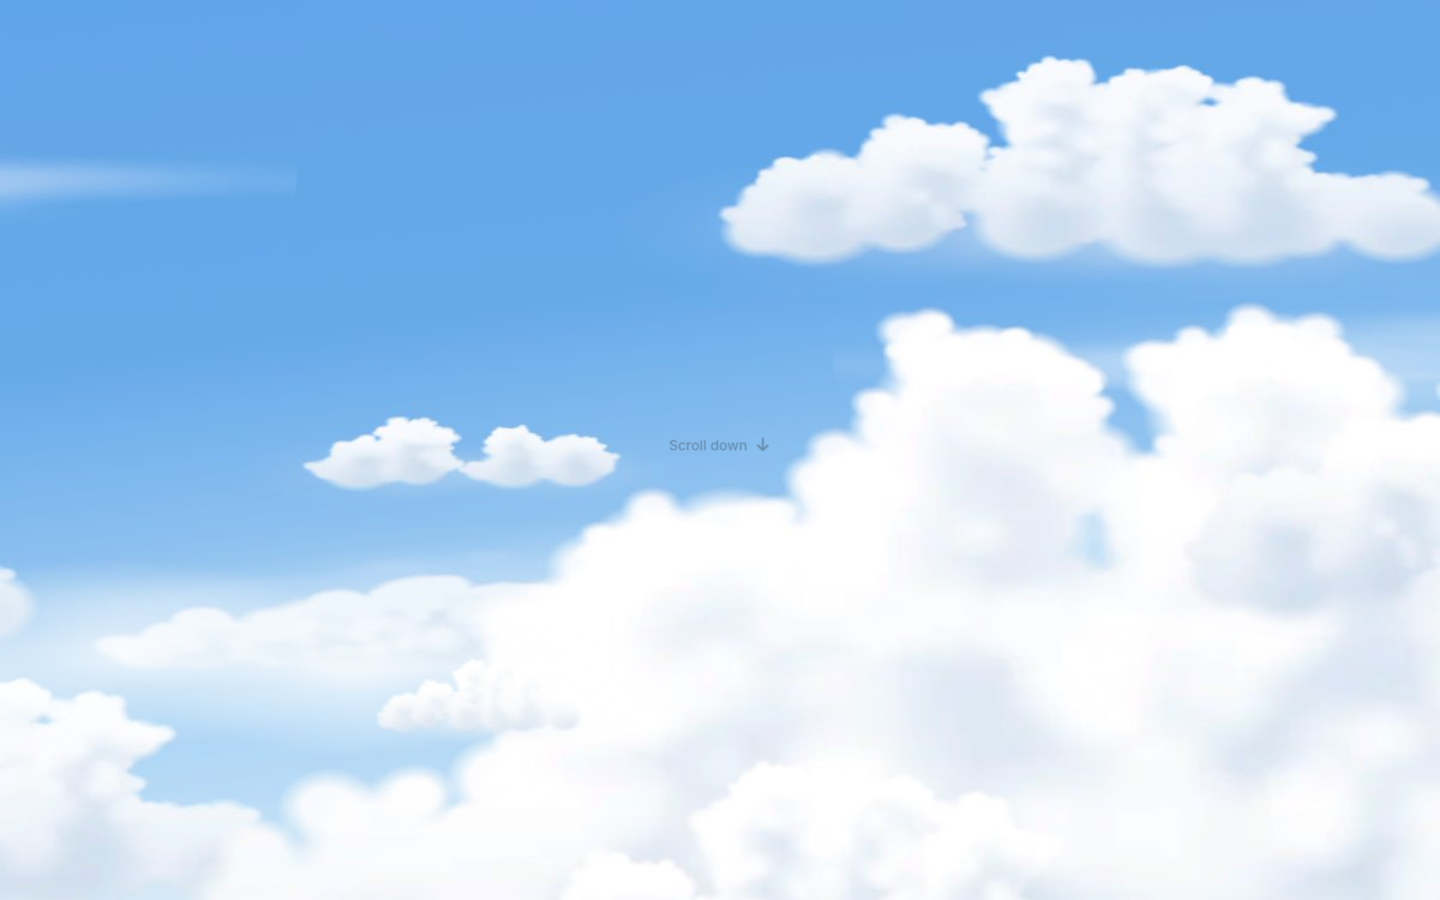
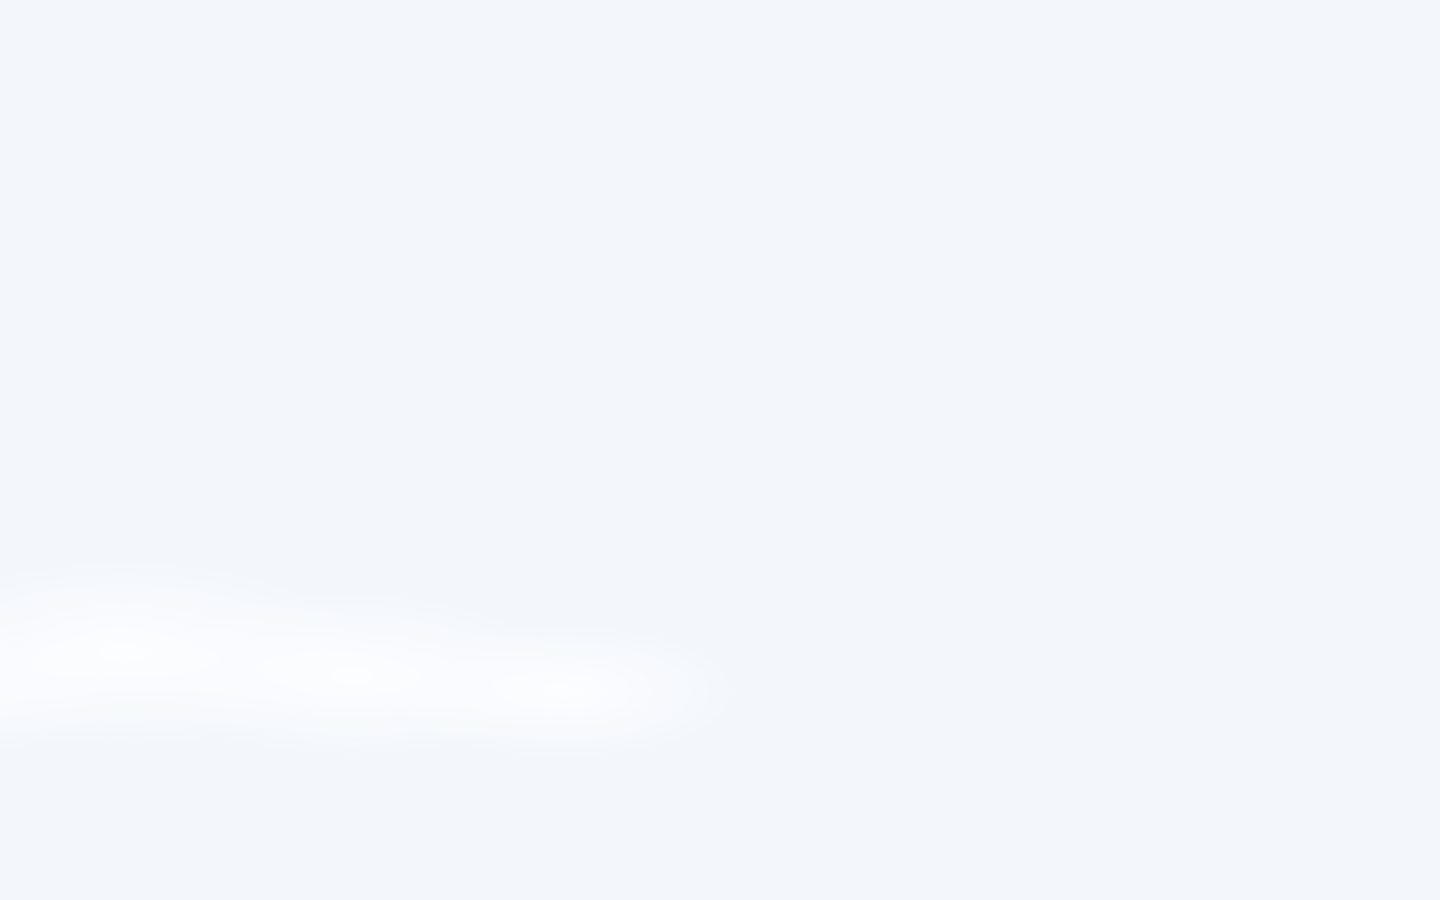
Opening: page starts inside the clouds and flies out to the intro

diff --git a/src/scroll.js b/src/scroll.js
@@ -2,7 +2,7 @@
 // from one pose to the next. Only the intro segments exist so far.
 import gsap from 'gsap';
 import { ScrollTrigger } from 'gsap/ScrollTrigger';
-import { POSES, setCameraPose, setFallbackShift } from './scene.js';
+import { POSES, setCameraPose, setFallbackShift, setFallbackZoom } from './scene.js';
 
 gsap.registerPlugin(ScrollTrigger);
 
@@ -113,6 +113,11 @@ function applyCamera() {
     const cloud = inClouds(straight(POSES.introStart, POSES.introEnd, introT), t);
     at = { rotX: mix(cloud.rotX, at.rotX, gate.value), y: mix(cloud.y, at.y, gate.value), z: mix(cloud.z, at.z, gate.value) };
   }
+  if (opening.value < 1) {
+    // Opening: start buried in the clouds and blend out to wherever the scroll says.
+    const o = opening.value;
+    at = { rotX: mix(POSES.opening.rotX, at.rotX, o), y: mix(POSES.opening.y, at.y, o), z: mix(POSES.opening.z, at.z, o) };
+  }
   setCameraPose({
     rotX: at.rotX - pointer.y * TRACK.tilt * follow,
     y: at.y - pointer.y * TRACK.lift * follow,
@@ -140,6 +145,36 @@ function moveMist(t) {
     const y = (MIST.passAt[i] - t) * MIST.travel;
     wisp.style.transform = `translate3d(0, ${y.toFixed(2)}vh, 0)`;
   });
+}
+
+// Opening: on a first visit the page starts inside the clouds and the camera flies out
+// to the first view. It starts from rest so the covered view is actually seen, speeds up
+// as the clouds part, and lands softly (ease in and out: it moves between two places).
+// With the 3D scene the veil just lifts off the real clouds first; without it (phones,
+// slow or failed load) the static image zooms out while the veil fades with it.
+const opening = { value: document.documentElement.classList.contains('is-opening') ? 0 : 1 };
+export function playOpening(sceneShowing) {
+  const root = document.documentElement;
+  if (!root.classList.contains('is-opening')) return;
+  const css = getComputedStyle(root);
+  const seconds = (parseFloat(css.getPropertyValue('--duration-opening')) || 1800) / 1000;
+  const zoom = parseFloat(css.getPropertyValue('--scale-opening-fallback')) || 1.4;
+  const veil = { value: 1 };
+  const paint = () => {
+    root.style.setProperty('--opening-veil', veil.value.toFixed(3));
+    setFallbackZoom(mix(zoom, 1, opening.value));
+    applyCamera();
+  };
+  gsap.timeline({
+    onUpdate: paint,
+    onComplete: () => {
+      root.classList.remove('is-opening');
+      root.style.removeProperty('--opening-veil');
+      setFallbackZoom(1);
+    },
+  })
+    .to(veil, { value: 0, duration: sceneShowing ? 0.4 : seconds * 0.7, ease: 'power1.out' }, 0)
+    .to(opening, { value: 1, duration: seconds, ease: 'power2.inOut' }, sceneShowing ? 0.2 : 0);
 }
 
 // Lets intro.js push the camera a little along its path and back.

diff --git a/src/scene.js b/src/scene.js
@@ -15,7 +15,8 @@ const REQUIRED_OBJECTS = [
 export const POSES = {
   introStart: { rotX: 0, y: 7000, z: -1800 }, // right up against the clouds, their tops at the bottom edge
   introEnd: { rotX: 0.05, y: 3400, z: -1800 }, // sunk into the cloud layer
-  hero: { rotX: 0.297, y: 226, z: 3733 },     // pulled back and down: the full scene, hills along the bottom
+  hero: { rotX: 0.297, y: 226, z: 3733 },
+  opening: { rotX: 0, y: 5200, z: -5400 },    // buried in the clouds: the whole screen is cloud     // pulled back and down: the full scene, hills along the bottom
 };
 
 let app = null;
@@ -53,11 +54,23 @@ export function setCameraPose(next) {
 
 // Slide the static image up as the page scrolls (0 = start, 1 = fully slid).
 // It is taller than the screen, so this only ever shows more of its lower part.
-export function setFallbackShift(t) {
+let fallbackShift = 0;
+let fallbackZoom = 1;
+function placeFallback() {
   const image = document.querySelector('.scene__fallback');
   if (!image) return;
   const spare = image.offsetHeight - window.innerHeight;
-  image.style.transform = `translate3d(0, ${-Math.max(0, spare) * t}px, 0)`;
+  image.style.transformOrigin = 'center top';
+  image.style.transform = `translate3d(0, ${-Math.max(0, spare) * fallbackShift}px, 0) scale(${fallbackZoom})`;
+}
+export function setFallbackShift(t) {
+  fallbackShift = t;
+  placeFallback();
+}
+// Zoom the static image during the opening (1 = normal).
+export function setFallbackZoom(z) {
+  fallbackZoom = z;
+  placeFallback();
 }
 
 // Load the scene. Resolves true if it is showing, false if the page stays on the image.

diff --git a/src/main.js b/src/main.js
@@ -4,11 +4,19 @@ import './styles/base.css';
 import './styles/sections/intro.css';
 import './styles/sections/hero.css';
 import { initScene } from './scene.js';
-import { initScroll } from './scroll.js';
+import { initScroll, playOpening } from './scroll.js';
 import { initIntro } from './intro.js';
 
 initIntro();
 initScroll();
 
 // The 3D scene starts loading only after the first paint, so text never waits for it.
-requestAnimationFrame(() => setTimeout(initScene, 0));
+const sceneReady = new Promise((resolve) => {
+  requestAnimationFrame(() => setTimeout(() => initScene().then(resolve), 0));
+});
+
+// Opening fly-out: starts as soon as the scene is drawn, but never waits more than 1.5 s.
+// If the scene is late, the opening plays on the static image and the scene fades in mid-way.
+const OPENING_WAIT_MS = 1500;
+Promise.race([sceneReady, new Promise((resolve) => setTimeout(() => resolve(false), OPENING_WAIT_MS))])
+  .then((sceneShowing) => playOpening(sceneShowing));

diff --git a/index.html b/index.html
@@ -11,6 +11,11 @@
       try {
         if (localStorage.getItem('ntd-intro-seen') === '1') document.documentElement.classList.add('intro-seen');
       } catch (e) {}
+      // Opening: the page starts inside the clouds and flies out. First visits only, at the top, motion welcome.
+      if (!document.documentElement.classList.contains('intro-seen') && !location.hash &&
+          !window.matchMedia('(prefers-reduced-motion: reduce)').matches) {
+        document.documentElement.classList.add('is-opening');
+      }
     </script>
     <link rel="preconnect" href="https://fonts.googleapis.com" />
     <link rel="preconnect" href="https://fonts.gstatic.com" crossorigin />

diff --git a/src/styles/tokens.css b/src/styles/tokens.css
@@ -80,6 +80,11 @@
   --duration-wisp-drift: 16s;              /* slow sideways sway, on top of the scroll motion */
   --shift-wisp-drift: 3vw;
 
+  /* Opening: the page starts inside the clouds */
+  --color-cloud-cover: #f3f7fc;            /* veil over the scene until the clouds are drawn */
+  --duration-opening: 2000ms;              /* fly-out from the clouds to the first view (read by scroll.js) */
+  --scale-opening-fallback: 1.4;           /* static image starts zoomed in this much (read by scroll.js) */
+
   /* Layers */
   --z-scene: 0;
   --z-content: 1;

diff --git a/src/styles/base.css b/src/styles/base.css
@@ -82,3 +82,6 @@ main { position: relative; z-index: var(--z-content); }
 .scene__canvas { opacity: 0; transition: opacity var(--duration-crossfade) var(--ease-standard); }
 .scene.is-loaded .scene__canvas { opacity: 1; }
 .scene iframe { pointer-events: none; }
+/* Opening veil: cloud-white over the scene at first paint. scroll.js fades it as the camera flies out. */
+.is-opening .scene::after { content: ''; position: absolute; inset: 0; background: var(--color-cloud-cover); opacity: var(--opening-veil, 1); }
+.is-opening .intro__hint { opacity: 0; }

diff --git a/design/decisions.md b/design/decisions.md
@@ -92,3 +92,10 @@
 - Each wisp crosses the text at a different point of the intro, roughly one per line, so covering is brief and partial.
 - Accessibility cost: contrast drops where a wisp overlaps letters. Kept translucent and passing; hidden with reduced motion and without JavaScript.
 - New tokens: --color-mist, --color-mist-edge, --opacity-mist, --size-wisp-w, --size-wisp-h, --duration-wisp-drift, --shift-wisp-drift.
+
+## 2026-11-17 · Opening: fly out of the clouds
+- First visits start inside the 3D cloud layer (camera at height 5200, 5400 units into the clouds, which fills the screen) and fly out to the first intro view (first version: 1.8 s, power3.out, cleared too fast; now 2 s, power2.inOut, starting 0.2 s after the veil begins to lift).
+- A cloud-white veil (#f3f7fc) covers the scene at first paint so there is no flash of clear sky while the scene loads. With the 3D scene it fades in the first 0.45 s; the real clouds do the rest.
+- Starts when the scene is drawn, at most 1.5 s after load. Phones, slow or failed loads: the static image zooms out from 1.4x while the veil fades.
+- The Scroll label waits until the opening is done. No opening on return visits, with a link target, or with reduced motion.
+- New tokens: --color-cloud-cover, --duration-opening, --scale-opening-fallback.

diff --git a/design/page-spec.md b/design/page-spec.md
@@ -17,7 +17,8 @@ Scene: sky with big clouds close to the camera. The clouds drift, and move up th
 - Scroll label: plain text reading "Scroll down" with a down arrow after it (no background), floating in the center of the screen.
 
 Motion:
-- On load: only the sky and the Scroll label. No text yet. The page waits.
+- Opening (first visits only): the page starts inside the clouds, fully covered, and the veil lifts off the 3D clouds (0.4 s), then the camera flies back out to the first view in 2 s, starting from rest, speeding up as the clouds part and landing softly. It starts as soon as the scene is drawn, at most 1.5 s after load; without the 3D scene the static image zooms out from inside a cloud-white veil instead. Not shown on return visits or with reduced motion.
+- After the opening: only the sky and the Scroll label. No text yet. The page waits.
 - First scroll: the "Scroll down" label fades out and part 1 is revealed. Back at the very top, the text goes and the label returns.
 - Trigger: scroll only (wheel, swipe, arrow keys, Space). No timer advances the page.
 - The intro stays pinned while the reader scrolls through 4.4 screens. Only one part is visible at a time.
